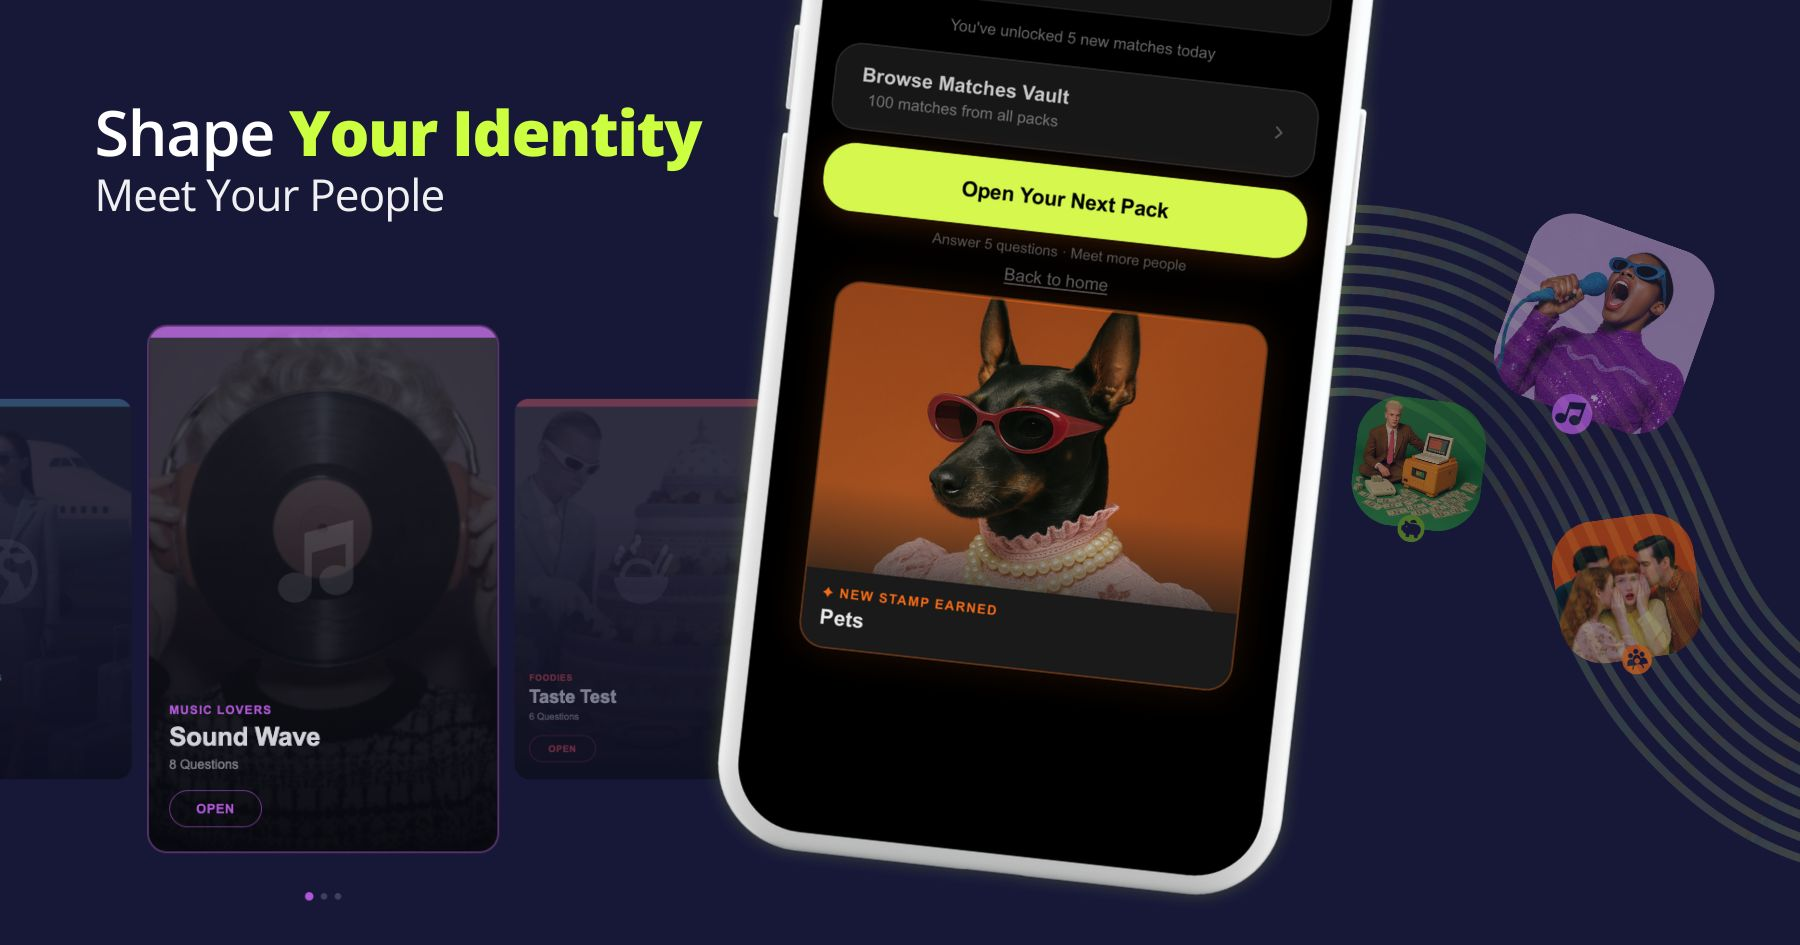
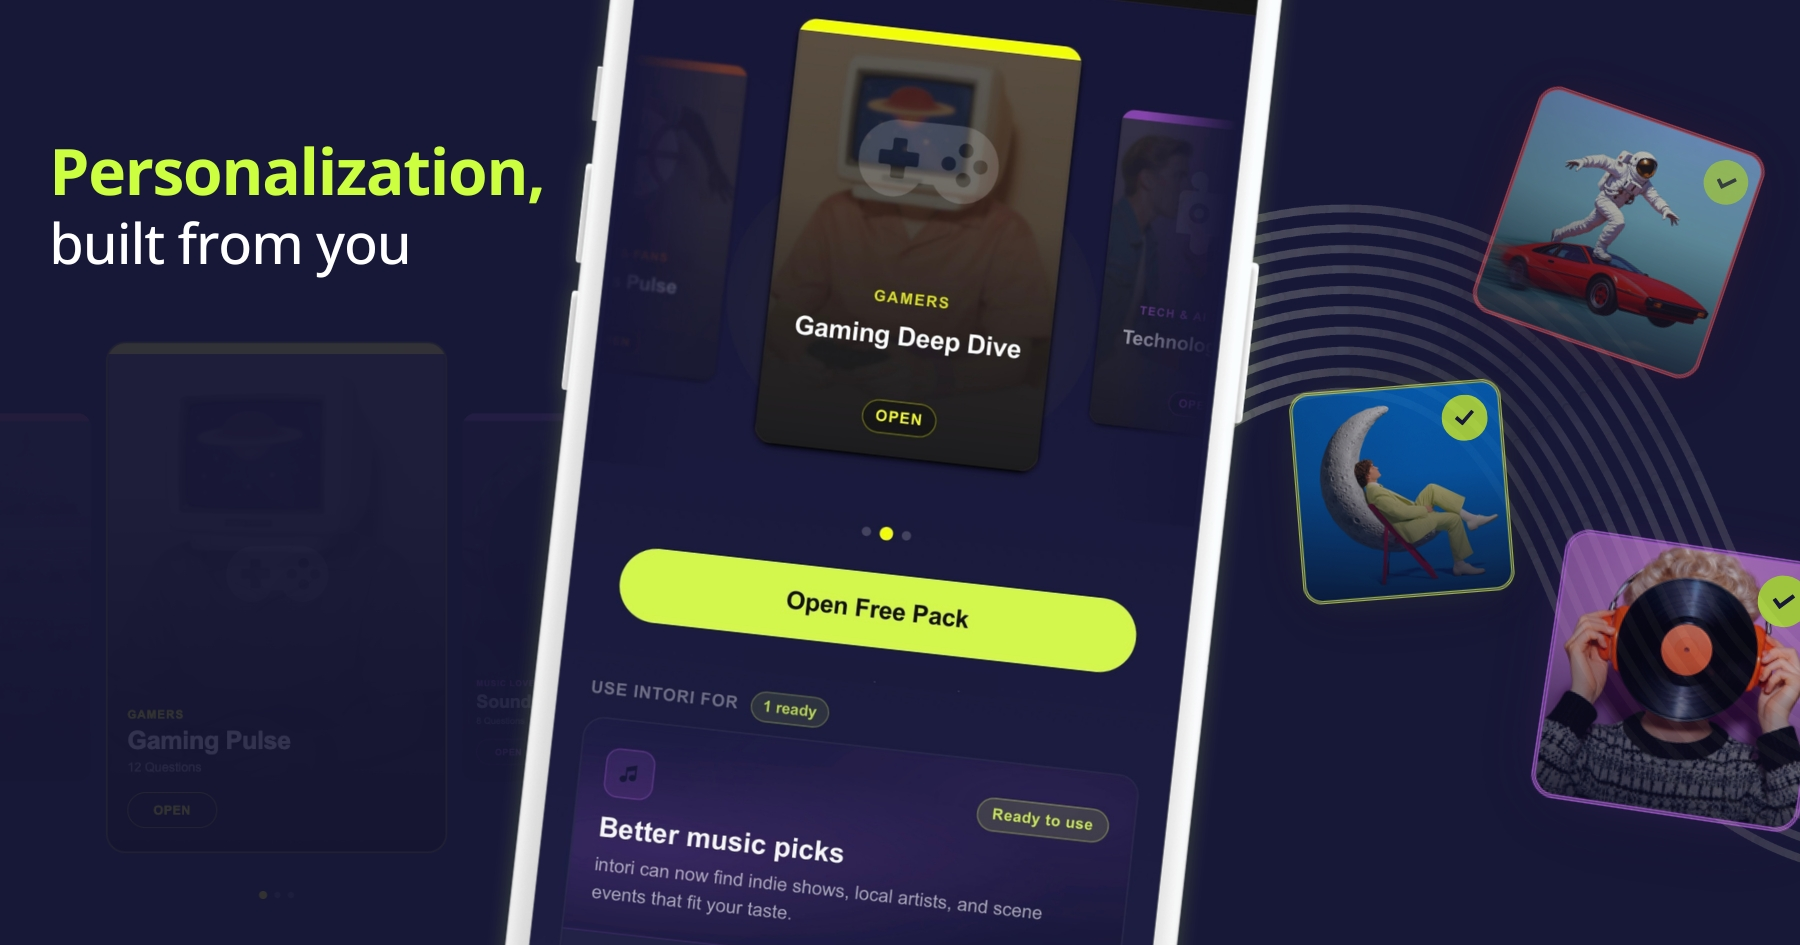
Update public share and hero assets

diff --git a/pages/_app.tsx b/pages/_app.tsx
@@ -41,8 +41,8 @@ function MyApp({ Component, pageProps: { session, ...pageProps } }: AppProps) {
         <meta property="og:site_name" content="intori" />
         <meta property="og:locale" content="en_US" />
         <meta property="og:image" content="https://www.intori.co/og/og-default.jpg" key="og-image" />
-        <meta property="og:image:width" content="1200" key="og-image-width" />
-        <meta property="og:image:height" content="630" key="og-image-height" />
+        <meta property="og:image:width" content="1800" key="og-image-width" />
+        <meta property="og:image:height" content="945" key="og-image-height" />
         <meta property="og:image:alt" content="intori" key="og-image-alt" />
         <meta name="twitter:card" content="summary_large_image" key="twitter-card" />
         <meta name="twitter:title" content="intori — Made for you. Within minutes." key="twitter-title" />
